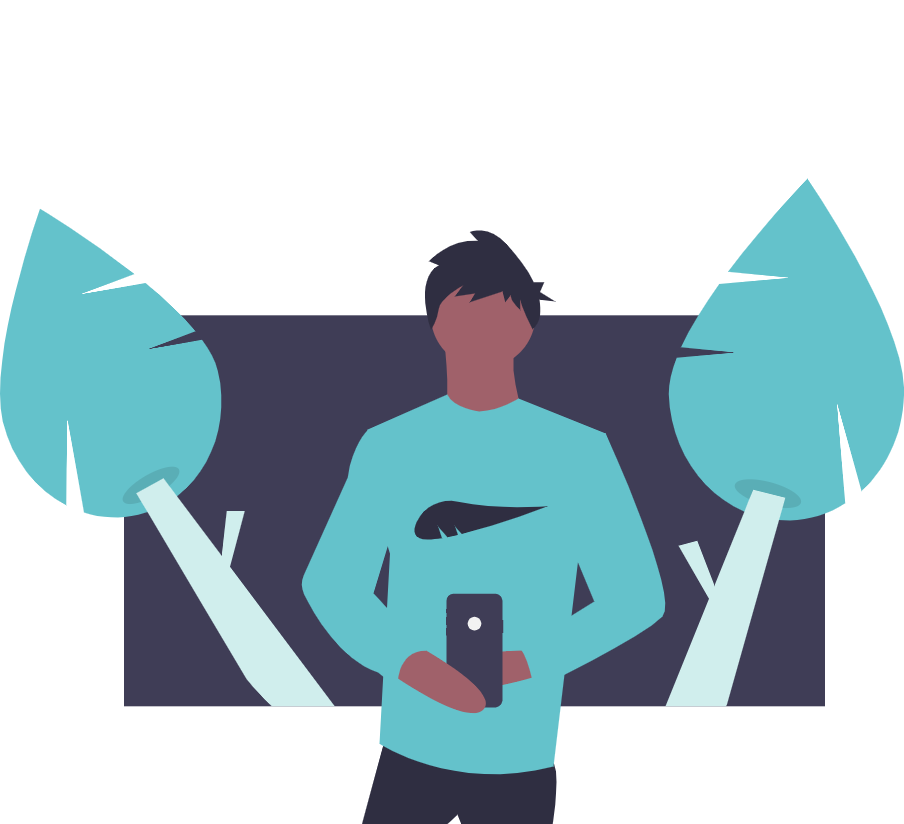
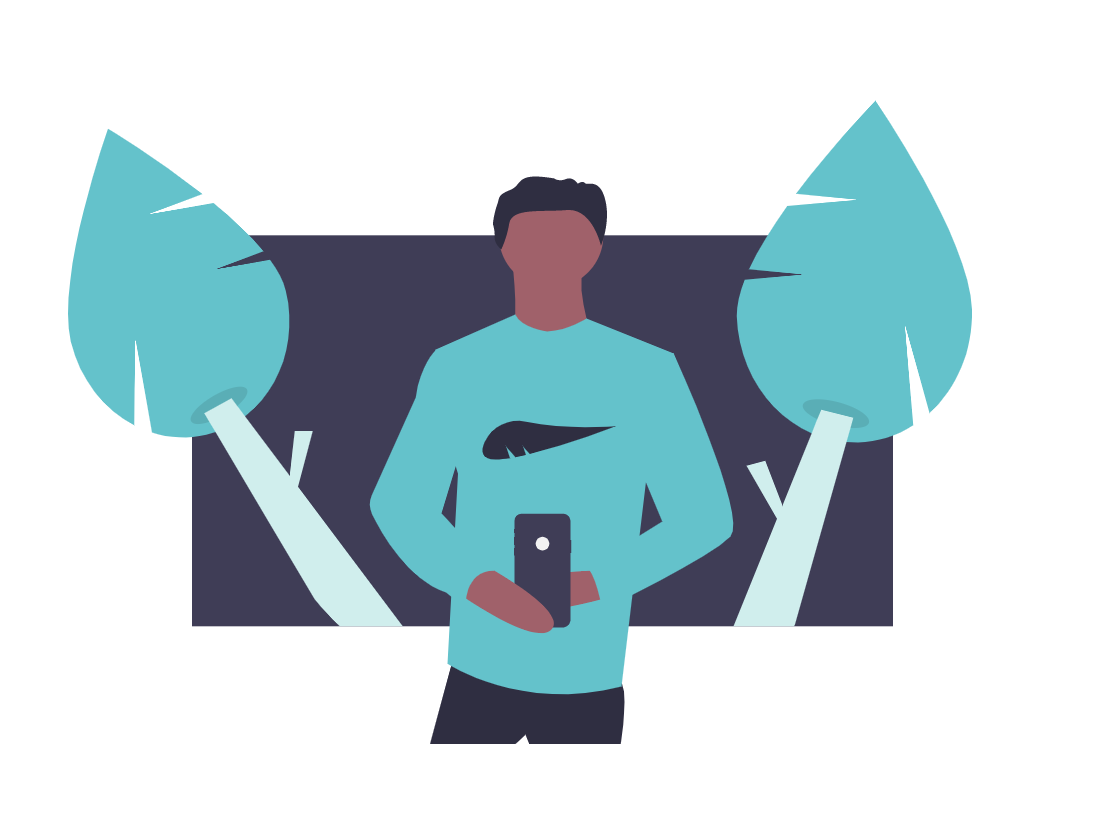
added hover on portfolio

diff --git a/index.html b/index.html
@@ -34,7 +34,7 @@
                 
             </section>
             <div class='landing__imageContainer imageContainer'>
-                <img src='./assets/illustrations/illLanding(2).png' class='landing__image image'
+                <img src='./assets/illustrations/illLanding.png' class='landing__image'
                     src='illustration of me holding a phone surrounded by two seperately growing trees' />
             </div>
             <div class='backgroundFirst'>
@@ -60,7 +60,7 @@
                     </div>
                     <div class='skills__imageContainer imageContainer visuallyHidden'>
                         <img src='./assets/illustrations/illProduct.png'
-                            alt='alternative illustration of myself but focused on product and the customer' class='skills__image skills__image--active image' />
+                            alt='alternative illustration of myself but focused on product and the customer' class='skills__image skills__image--active  imageTwo' />
                     </div>
                     <div class='skills__sliderSection'>
                         <div class='skills__sliderHeaders'>
@@ -113,6 +113,8 @@
                                     <h3>Yama5:</h3>
                                     <p>An AirBnb for yoga classes. The platform allows instructors to host classes and amateurs to find classes </p>
                                     <p>Javascript, jQuery, CSS, Sass, HTML</p>
+                                    <p><a href='https://github.com/tomstuart123/tomStuartProjectThree'>Go to Github</a> or
+                                        <a href='https://tomstuart123.github.io/tomStuartProjectThree/'>See live </a></p>
                                 </div>
                         </div>
                         <div class='portfolio__galleryItem portfolio__galleryItem--activeTwo'>
@@ -121,6 +123,9 @@
                                     <h3>Chattr:</h3>
                                     <p>A messaging App for Desktop, Mobile and Virtual Reality. Allows user to sign in, join public chats or set up private channels</p>
                                     <p>React, Javascript, Firebase, CSS, Sass</p>
+                                    <p><a href='https://github.com/tomstuart123/tom-stuart-project-fiver'>Go to Github</a></p> 
+                                    <p>or</p>
+                                    <p><a href='https://tomstuart123.github.io/tom-stuart-project-fiver/index.html'>See live </a></p>
                                 </div>
                         </div>
                         <div class='portfolio__galleryItem portfolio__galleryItem--activeTwo visuallyHidden'>
@@ -129,6 +134,7 @@
                                 <h3>Havn:</h3>
                                 <p>Fully led the development of a high end uber-like mobile product that prioritises ethical transportation. The first fully electric ride hailing app in London</p>
                                 <p>Product Manager from concept to Launch</p>
+                                <p><a href='https://www.ridehavn.com/'>See live </a></p>
                             </div>
                         </div>
                         <div class='portfolio__galleryItem portfolio__galleryItem--active'>
@@ -137,14 +143,18 @@
                                 <h3>iVino:</h3>
                                 <p>A Wine Recommendation Tool that acts as your own personal sommelier and then guides you to your nearest LCBO using Mapbox</p>
                                 <p>Javascript, J-Query, Mapbox API, CSS, Sass</p>
+                                <p><a href='https://github.com/Elena-and-Tom/elenaAndTomProjectFour'>Go to Github</a> or
+                                    <a href='https://elena-and-tom.github.io/elenaAndTomProjectFour/index.html'>See live </a></p>
                             </div>
                         </div>
                         <div class='portfolio__galleryItem portfolio__galleryItem--active'>
                             <img src='./assets/portfolio/macbook-pro-clay (hueAreYou).png' class='portfolio__image' alt='hueAreYou Makeup Portfolio Image' />
                             <div class='imageCaption'>
                                 <h3>hueAreYou:</h3>
-                                <p>Use your favourite makeup to create your own art gallery</p>
+                                <p>Use your favourite makeup to create your own art gallery (note - group project)</p>
                                 <p>Javascript, J-Query, Mapbox API, CSS, Sass</p>
+                                <p><a href='https://github.com/hueAreWe/hueAreYou'>Go to Github</a> or
+                                    <a href='https://huearewe.github.io/hueAreYou/'>See live </a></p>
                             </div>
                         </div>
                         <div class='portfolio__galleryItem portfolio__galleryItem--active visuallyHidden'>
@@ -153,6 +163,8 @@
                                 <h3>Samsung Upgrade Programme:</h3>
                                 <p>Worked on the team to deliver a new way to buy phones and TVs via subscription instead of outright purchase</p>
                                 <p>Part of the product team</p>
+                                <p>
+                                    <a href='https://www.samsung.com/us/mobile/phones/upgrade/'>See live </a></p>
                             </div>
                         </div>
                         <div class='portfolio__galleryItem portfolio__galleryItem--active visuallyHidden'>
@@ -161,6 +173,7 @@
                                 <h3>EdenCup:</h3>
                                 <p>Led the branding, web and product design for the new menstrual cup product launching in the UK </p>
                                 <p>Co-founder & Product Lead</p>
+                                <p>(Website Launching January '20)</p>
                             </div>
                         </div>
                         <div class='portfolio__galleryItem portfolio__galleryItem--activeThree'>
@@ -169,6 +182,8 @@
                                 <h3>Bitmetric:</h3>
                                 <p>Real-time web product using the Blockchain.com API to present the most relevant Bitcoin data based on actual usage</p>
                                 <p>Javascript, jQuery, API, CSS, Sass</p>
+                                <p><a href='https://github.com/tomstuart123/BlockchainAPI/tree/master/BitMetric'>Go to Github</a> or 
+                                <a href='https://tomstuart123.github.io/BlockchainAPI/BitMetric/'>See live </a></p>
                             </div>
                         </div>
                     </div>
@@ -182,7 +197,7 @@
             <div class='footer__main'>
                 <div class='footer__text'>
                     <div>
-                        <h3 class='footer__subHeader'>I'm knew to Toronto and always like to talk tech. If you ever want to grab a coffee or just meet up to code, drop me an email. </h3>
+                        <h3 class='footer__subHeader'>I'm new to Toronto and always like to talk tech. If you ever want to grab a coffee or just meet up to code, drop me an email. </h3>
                        
                     </div>
                     <div>

diff --git a/styles/main.css b/styles/main.css
@@ -319,21 +319,27 @@ h2::before {
   height: 100%;
   top: 0px;
   right: 0px;
-  width: 28%;
+  width: 26.5%;
   z-index: -1;
+}
+
+@media only screen and (max-width: 1150px) {
+  .backgroundFirst {
+    width: 27.5%;
+  }
 }
 
 @media only screen and (max-width: 950px) {
   .backgroundFirst {
-    width: 49%;
+    width: 50%;
   }
 }
 
 .landing__imageContainer {
   position: absolute;
-  top: 100px;
-  right: 50px;
-  width: 50%;
+  top: 140px;
+  right: 80px;
+  width: 40%;
 }
 
 @media only screen and (max-width: 950px) {
@@ -615,6 +621,11 @@ h2::before {
 
 .skills__image--active {
   width: 70%;
+}
+
+.imageTwo {
+  width: 100%;
+  margin-left: 60px;
 }
 
 .skills__sliderSection {
@@ -1196,7 +1207,6 @@ progress::-webkit-progress-value {
 .portfolio__galleryItem {
   background: whitesmoke;
   position: relative;
-  cursor: pointer;
   padding: 2%;
 }
 
@@ -1331,17 +1341,42 @@ progress::-webkit-progress-value {
   }
 }
 
+.portfolio__galleryItem--activeTwo .imageCaption {
+  padding: 25%;
+}
+
 @media only screen and (max-width: 950px) {
-  .portfolio__galleryItem .imageCaption {
+  .portfolio__galleryItem--activeTwo .imageCaption {
+    padding: 50% 20%;
+  }
+}
+
+@media only screen and (max-width: 750px) {
+  .portfolio__galleryItem--activeTwo .imageCaption {
+    padding: 25%;
+  }
+}
+
+.portfolio__galleryItem--activeThree .imageCaption {
+  padding: 4% 30%;
+}
+
+@media only screen and (max-width: 950px) {
+  .portfolio__galleryItem--activeThree .imageCaption {
+    padding: 5% 25%;
+  }
+}
+
+@media only screen and (max-width: 750px) {
+  .portfolio__galleryItem--activeThree .imageCaption {
     padding: 12% 15%;
   }
 }
 
 .portfolio__galleryItem:hover .imageCaption {
   display: block;
-  background: -webkit-gradient(linear, left bottom, left top, from(#b8b8b8), color-stop(10%), to(#e8e8e8));
-  background: linear-gradient(to top, #b8b8b8, 10%, #e8e8e8);
-  opacity: 0.9;
+  background: #e8e8e8;
+  opacity: 0.95;
 }
 
 .portfolio__galleryItem:hover .imageCaption h3 {
@@ -1376,38 +1411,6 @@ progress::-webkit-progress-value {
 @media only screen and (max-width: 950px) {
   .portfolio__galleryItem:hover .imageCaption p {
     font-size: 0.75rem;
-  }
-}
-
-.portfolio__galleryItem--activeTwo .imageCaption {
-  padding: 25%;
-}
-
-@media only screen and (max-width: 950px) {
-  .portfolio__galleryItem--activeTwo .imageCaption {
-    padding: 50% 20%;
-  }
-}
-
-@media only screen and (max-width: 750px) {
-  .portfolio__galleryItem--activeTwo .imageCaption {
-    padding: 25%;
-  }
-}
-
-.portfolio__galleryItem--activeThree .imageCaption {
-  padding: 5% 35%;
-}
-
-@media only screen and (max-width: 950px) {
-  .portfolio__galleryItem--activeThree .imageCaption {
-    padding: 5% 25%;
-  }
-}
-
-@media only screen and (max-width: 750px) {
-  .portfolio__galleryItem--activeThree .imageCaption {
-    padding: 12% 15%;
   }
 }
 /*# sourceMappingURL=main.css.map */

diff --git a/styles/section/_sectionFive.scss b/styles/section/_sectionFive.scss
@@ -108,7 +108,6 @@
     // transition: grid-row-start 300ms linear;
     // transition: transform 300ms ease;
     // transition: all 0.5s ease;
-    cursor: pointer;
     padding: 2%;
     // width: 100%;
     @include media(750px) {
@@ -213,16 +212,35 @@
   @include media(950px) {
        padding: 8% 15%
      }
-     @include media(950px) {
-       padding: 12% 15%
+}
+
+
+.portfolio__galleryItem--activeTwo .imageCaption {
+  padding: 25%;
+  @include media(950px) {
+       padding: 50% 20%;
      }
+     @include media(750px) {
+       padding: 25%;
+     }
+}
+
+.portfolio__galleryItem--activeThree .imageCaption {
+  padding: 4% 30%;
+  @include media(950px) {
+       padding: 5% 25%;
+     }
+     @include media(750px) {
+       padding: 12% 15%;
+     }
+
 }
 
 .portfolio__galleryItem:hover .imageCaption {
   display: block;
-  background: linear-gradient(to top, rgb(184, 184, 184), 10%, rgb(232, 232, 232));
-  //  background: $midColour;
-  opacity: 0.9; 
+  // background: linear-gradient(to top, rgb(184, 184, 184), 10%, rgb(232, 232, 232));
+   background: rgb(232, 232, 232);
+  opacity: 0.95; 
   
   h3 {
     color: black;
@@ -248,24 +266,4 @@
   }
 }
 
-.portfolio__galleryItem--activeTwo .imageCaption {
-  padding: 25%;
-  @include media(950px) {
-       padding: 50% 20%;
-     }
-     @include media(750px) {
-       padding: 25%;
-     }
-}
-
-.portfolio__galleryItem--activeThree .imageCaption {
-  padding: 5% 35%;
-  @include media(950px) {
-       padding: 5% 25%;
-     }
-     @include media(750px) {
-       padding: 12% 15%;
-     }
-
-}
 

diff --git a/styles/section/_sectionOne.scss b/styles/section/_sectionOne.scss
@@ -23,18 +23,21 @@
     height: 100%;
     top: 0px;
     right: 0px;
-    width: 28%;
+    width: 26.5%;
     z-index: -1;
+    @include media(1150px) {
+        width: 27.5%;
+     } 
     @include media(950px) {
-        width: 49%;
+        width: 50%;
      } 
 }
 
 .landing__imageContainer {
     position: absolute;
-    top: 100px;
-    right: 50px;
-    width: 50%;
+    top: 140px;
+    right: 80px;
+    width: 40%;
      @include media(950px) {
         position: static;
         font-size: 2.5rem;

diff --git a/index.js b/index.js
@@ -1,5 +1,4 @@
 // TO DO
-// 2. Add haircuts
 // 3. Make hover portfolio and progress bars in mobile
 // 4. Animate portfolio / skills section
 // 5. Add Resume page

diff --git a/styles/section/_sectionThree.scss b/styles/section/_sectionThree.scss
@@ -59,6 +59,11 @@
     width: 70%;
 }
 
+.imageTwo {
+    width:100%;
+    margin-left: 60px;
+}
+
 .skills__sliderSection {
     width: 50%;
     height: 80%;
